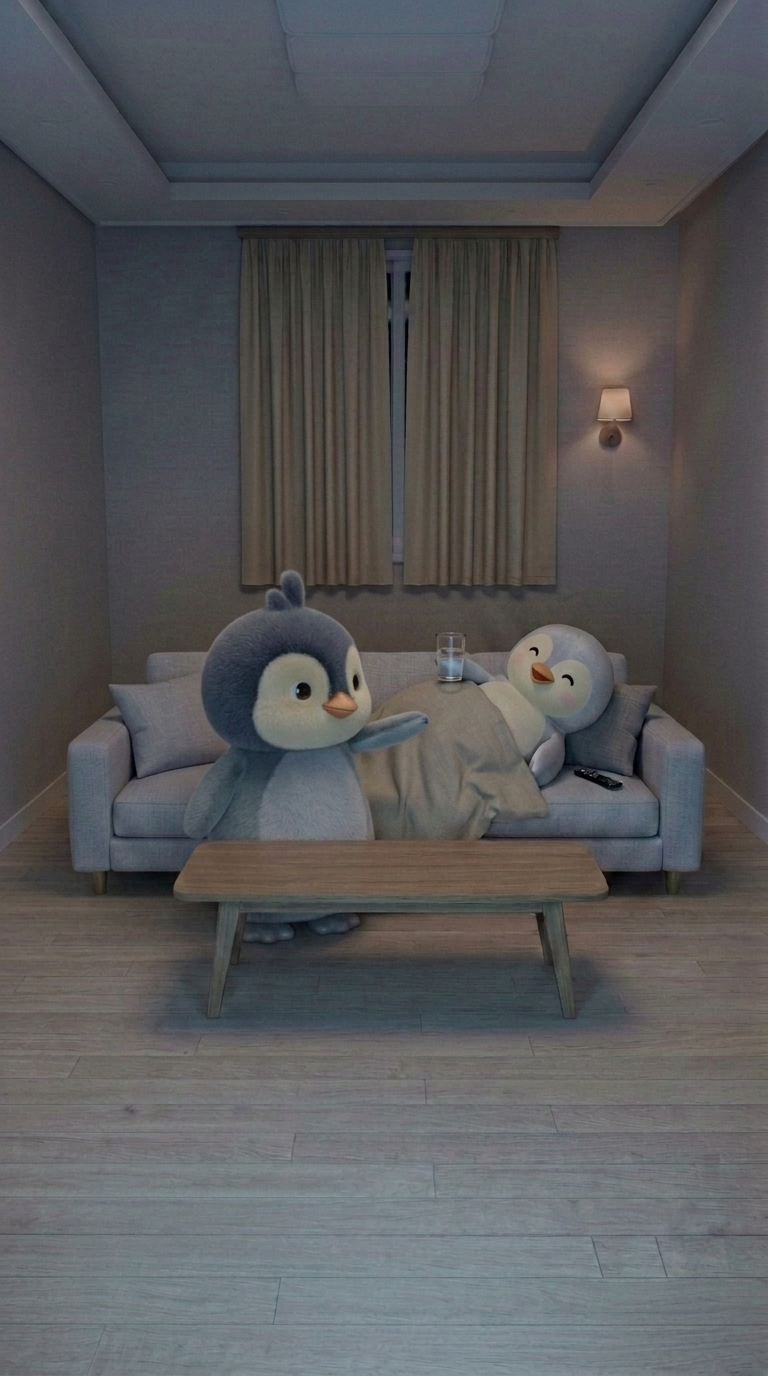
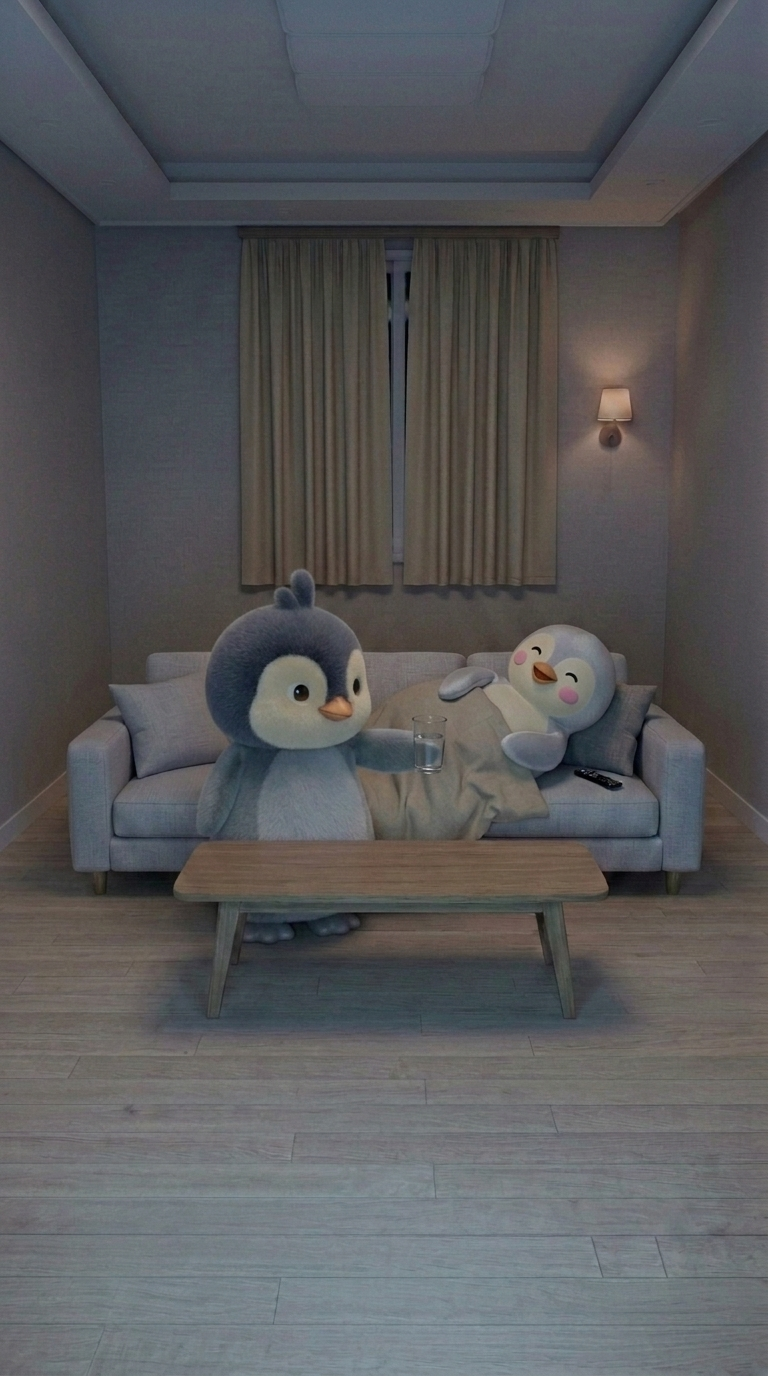
ep02 이미지 체인 2차: 20/23 채택, 7e·9e 보류, 16e 불합격(재시도 대기)
Claude-Session: https://claude.ai/code/session_01SQGDxQ7jeAcwC7nJPg1YUA

diff --git a/tools/ep02_imgs.py b/tools/ep02_imgs.py
@@ -16,7 +16,7 @@ MAN = {
  '4e': dict(out=O+'04/end_v1.png', model=FLASH, refs=[O+'01/end_v1.png',C+'pang-changsu_hires_front.png',M+'pang-misun_hires_front.png',M+'pang-misun_pose_hold_cup.png']),
  '5s': dict(out=O+'05/start_v1.png', model=FLASH, refs=[O+'01/end_v1.png',C+'pang-changsu_hires_front.png']),
  '6s': dict(out=O+'06/start_v1.png', model=FLASH, refs=[O+'04/start_v1.png',C+'pang-changsu_hires_front.png',C+'pang-changsu_pose_hold_cup.png']),
- '6e': dict(out=O+'06/end_v1.png', model=FLASH, refs=[O+'05/start_v1.png',C+'pang-changsu_hires_front.png',M+'pang-misun_hires_front.png',M+'pang-misun_pose_lying.png']),
+ '6e': dict(out=O+'06/end_v1.png', model=PRO, refs=[O+'05/start_v1.png',C+'pang-changsu_hires_front.png',M+'pang-misun_hires_front.png',M+'pang-misun_pose_lying.png']),
  '7s': dict(out=O+'07/start_v1.png', model=FLASH, refs=[O+'06/end_v1.png',C+'pang-changsu_hires_front.png',C+'pang-changsu_pose_walk_side.png']),
  '7e': dict(out=O+'07/end_v1.png', model=FLASH, refs=[O+'07/start_v1.png',C+'pang-changsu_hires_front.png',C+'pang-changsu_pose_walk_side.png']),
  '9s': dict(out=O+'09/start_v1.png', model=FLASH, refs=[O+'06/end_v1.png',C+'pang-changsu_hires_front.png',C+'pang-changsu_pose_hold_cup.png']),
@@ -36,7 +36,7 @@ def prompt_for(pid):
     doc = open(os.path.join(ROOT, 'docs/ep02/03_이미지_프롬프트_v2.md'), encoding='utf-8').read()
     for sec in doc.split('\n### ')[1:]:
         head = sec.split('\n', 1)[0]
-        if head.startswith(pid + ' '):
+        if re.search(r'(^|[ .])' + re.escape(pid) + r' ', head):
             m = re.search(r'```\n(.*?)\n```', sec, re.S)
             return m.group(1)
     raise SystemExit('no prompt for ' + pid)

diff --git a/docs/ep02/03_이미지_프롬프트_v2.md b/docs/ep02/03_이미지_프롬프트_v2.md
@@ -162,7 +162,7 @@ The final image must be vertical 9:16.
 첨부: `outputs/ep02/01/end_v1.png`(1번째), `pang-changsu_hires_front.png`, `pang-misun_hires_front.png`, `pang-misun_pose_hold_cup.png`
 ```
 The output image must be a VERTICAL 9:16 PORTRAIT image - tall, not square, not landscape.
-Edit the FIRST attached image. Keep EVERYTHING exactly the same: the same camera, living room, sofa, EMPTY table, curtain, wall lamp, TV glow, Pang Chang-su standing in the same spot beside the left end of the sofa at the same size, and Pang Mi-sun lying in the same place on the right half of the sofa under the beige duvet with the black remote on the seat beside her. Change ONLY TWO things: (1) Mi-sun now HOLDS a clear glass of water, half full, clamped in the tip of her wing nearer the camera, raised a little above the duvet, exactly like the attached cup-holding reference, no fingers; her face is turned toward Chang-su on the left with a wide happy smile, beak closed. (2) Chang-su has just handed it over: his body leans slightly toward her and his wing nearer the sofa is stretched a little toward her, now EMPTY, holding nothing; his face stays calm and neutral, eyes open normally, beak closed, tuft on his head, NO blush. Exactly ONE glass exists in the picture. The table stays empty. Do not change the fur of either penguin (short velvet fur with visible soft fibers, matte, NOT smooth, NOT plastic, NOT glossy), do not change the room or the lighting. No text, no reflections, no other objects.
+Edit the FIRST attached image. Keep EVERYTHING exactly the same: the same camera, living room, sofa, EMPTY table, curtain, wall lamp, TV glow, Pang Chang-su standing in the same spot beside the left end of the sofa at the same size, and Pang Mi-sun lying in the same place on the right half of the sofa under the beige duvet with the black remote on the seat beside her. Change ONLY TWO things: (1) Mi-sun now HOLDS a clear glass of water, half full, clamped in the tip of her wing nearer the camera, exactly like the attached cup-holding reference, no fingers; she holds the glass LOW, just above the duvet at her chest level, well BELOW the top of the sofa backrest, NOT raised above her head; her face is turned toward Chang-su on the left with a wide happy smile, beak closed. (2) Chang-su has just handed it over: his body leans slightly toward her and his wing nearer the sofa is stretched a little toward her, now EMPTY, holding nothing; his face stays calm and neutral, eyes open normally, beak closed, tuft on his head, NO blush. Exactly ONE glass exists in the picture. The table stays empty. Do not change the fur of either penguin (short velvet fur with visible soft fibers, matte, NOT smooth, NOT plastic, NOT glossy), do not change the room or the lighting. No text, no reflections, no other objects.
 The final image must be vertical 9:16.
 ```
 확인: 컵 1개 미순 날개, 창수 날개 비움·늘어나지 않음(R9-5), 탁자 비움.
@@ -192,7 +192,7 @@ The final image must be vertical 9:16.
 첨부: `outputs/ep02/05/start_v1.png`(1번째), `pang-changsu_hires_front.png`, `pang-misun_hires_front.png`, `pang-misun_pose_lying.png`
 ```
 The output image must be a VERTICAL 9:16 PORTRAIT image - tall, not square, not landscape.
-Edit the FIRST attached image. Keep EVERYTHING exactly the same: the same camera, living room, sofa, curtain, wall lamp, TV glow, the clear glass of water on the table, and Pang Mi-sun lying on the right half of the sofa under the beige duvet in the same place, looking at the camera, with the black remote on the seat beside her wing. Change ONLY TWO things: (1) Pang Chang-su is no longer at the left end: he now STANDS on the floor at the RIGHT END of the sofa, in the gap between the sofa and the table, right beside Mi-sun's head and the right armrest, body facing the camera, feet flat on the floor, both wings now EMPTY and hanging at his sides, having just pushed a pillow under her head; same size as before (seat cushion at his knee height, head above the backrest), calm neutral face, eyes open normally, beak closed, tuft, NO blush. (2) A plain white bed pillow now lies UNDER Mi-sun's head, on top of the square cushion against the right armrest, so her head rests on the pillow, lifted a little higher than before; her body, the duvet, her face and smile are otherwise unchanged. Exactly ONE pillow, exactly ONE glass, exactly ONE penguin named Chang-su. Do not change the fur of either penguin (short velvet fur with visible soft fibers, matte, NOT smooth, NOT plastic, NOT glossy), do not change the room or the lighting. No text, no reflections, no other objects.
+Edit the FIRST attached image. Keep EVERYTHING exactly the same: the same camera, living room, sofa, curtain, wall lamp, TV glow, the clear glass of water on the table, and Pang Mi-sun lying on the right half of the sofa under the beige duvet in the same place, looking at the camera, with the black remote on the seat beside her wing. Change ONLY TWO things: (1) There is EXACTLY ONE Chang-su in the picture. He is NOT at the left end any more - REMOVE him from there completely, so the left seat cushion is empty with nothing standing in front of it. He now STANDS on the floor at the RIGHT END of the sofa, in the gap between the sofa and the table, right beside Mi-sun's head and the right armrest, body facing the camera, feet flat on the floor, both wings now EMPTY and hanging at his sides, having just pushed a pillow under her head; same size as before (seat cushion at his knee height, head above the backrest), calm neutral face, eyes open normally, beak closed, tuft, NO blush. (2) A plain white bed pillow now lies UNDER Mi-sun's head, on top of the square cushion against the right armrest, so her head rests on the pillow, lifted a little higher than before; her body, the duvet, her face and smile are otherwise unchanged. Exactly ONE pillow, exactly ONE glass, exactly ONE penguin named Chang-su. Do not change the fur of either penguin (short velvet fur with visible soft fibers, matte, NOT smooth, NOT plastic, NOT glossy), do not change the room or the lighting. No text, no reflections, no other objects.
 The final image must be vertical 9:16.
 ```
 확인: 창수 오른쪽 끝(소파와 탁자 사이), 날개 비움, 베개 1개 머리 밑, 리모컨 유지. 7s·9s의 부모.
@@ -333,3 +333,28 @@ The final image must be vertical 9:16.
 재시도 문장(승인 대기)
 - 4e: `She holds the glass LOW, just above the duvet at her chest level, well BELOW the top of the sofa backrest; it is not raised above her head.`
 - 6e: `There is EXACTLY ONE Chang-su in the picture. He is NOT at the left end any more - the left seat cushion is empty with nothing in front of it. He stands only at the RIGHT END beside the right armrest.` + 모델 Pro.
+
+### 2차 (사용자 "다시" 후, 2026-10-07)
+| # | 결과 | 비용 | 메모 |
+|---|---|---|---|
+| 4e v2 | ✅ | 95 | 컵이 **창수 날개에서 미순 쪽으로 내밀어진 순간**으로 나옴(미순은 받으려 날개 듦). "건네는 순간" 끝 프레임으로 채택. 원안(미순 손에)보다 자연스러움 |
+| 6e v2 | ✅ | 192 | Pro. 창수 1명, 오른쪽 끝(팔걸이 옆, 탁자 오른쪽), 베개 머리 밑, 컵 탁자 |
+| 7s | ✅(주의) | 95 | 좌향 측면 걷기. 위치가 "소파와 탁자 사이"가 아니라 **탁자 앞(카메라 쪽)** — 돌아서는 컷이라 허용 |
+| 7e | ⏸ 보류 | 95 | 우향 측면이 아니라 **뒷모습**(소파를 향해 90° 돈 상태). 턴의 끝으로 애매. 원본 `original/07_end_v1_backview.png` |
+| 9s | ✅ | 95 | 창수 왼쪽 가장자리, 머그+김, 베개·컵 유지 |
+| 9e | ⏸ 보류 | 95 | 머그가 미순 날개에 있으나 **머리 위로 치켜듦**(4e v1과 같은 버릇). 창수는 소파 앞에서 기울임 OK. 원본 `original/09_end_v1_mug_high.png`. 11s는 머그를 탁자로 옮기므로 체인은 영향 없음 |
+| 11s | ✅ | 95 | 창수 왼쪽 끝 직립 + 충전기, 머그·컵 탁자(머그는 탁자 왼쪽 끝), 미순 날개 비움 |
+| 11e | ✅ | 192 | Pro. 창수 왼쪽 좌석 착석(머리 등받이 상단 근처, 발 좌면 위), 충전기 바닥(탁자 왼쪽 앞), 탁자 2개 |
+| 14s | ✅ | 95 | 앉은 창수 상반신, 뒤 등받이, 01 기본 |
+| 12s | ✅ | 95 | 베개·리모컨(날개 바로 옆)·01 기본 |
+| 15e | ✅(주의) | 95 | 리모컨 미순 날개(역시 높이 듦), 부리 열림, 창수 기울임. 16e가 자세를 바꾸므로 허용 |
+| 12e | ✅ | 95 | 고개 왼쪽, 부리 살짝 |
+| 16e | ❌ | 192 | 둘이 붙어 앉고 미순이 기대며 리모컨 든 건 OK. **이불이 미순만 덮음**(창수 배·발 노출), 미순 부리 열림. 원본 `original/16_end_v1_duvet_misun_only.png` |
+누적 **4,245원** / 잔여 5,755원. 23장 중 20장 채택, 보류 2(7e·9e), 불합격 1(16e).
+
+재시도 문장(승인 대기)
+- 7e: `seen from the SIDE with his face and ORANGE beak visible in profile, walking toward the RIGHT; do NOT show his back to the camera.`
+- 9e: 4e와 같은 문장 `she holds the mug LOW, just above the duvet at her chest level, well BELOW the top of the sofa backrest, NOT raised above her head`.
+- 16e: `The ONE beige duvet is spread across BOTH penguins: it covers Chang-su's belly, legs and feet as well as Mi-sun's, so neither penguin's feet are visible; only their heads, shoulders and the wings on top of the duvet show. Mi-sun's beak is CLOSED.` (Pro)
+
+배운 것(05c에 추가할 규칙 후보): 이 모델은 **"손에 든 물건"을 머리 위로 치켜드는 버릇**이 있다 → 든 물건에는 항상 높이 문장(`LOW, at chest level, below the backrest top`)을 넣는다. "둘 다 덮는다"는 `BOTH ... as well as ...; neither ... visible`처럼 부정문까지 써야 한다.
